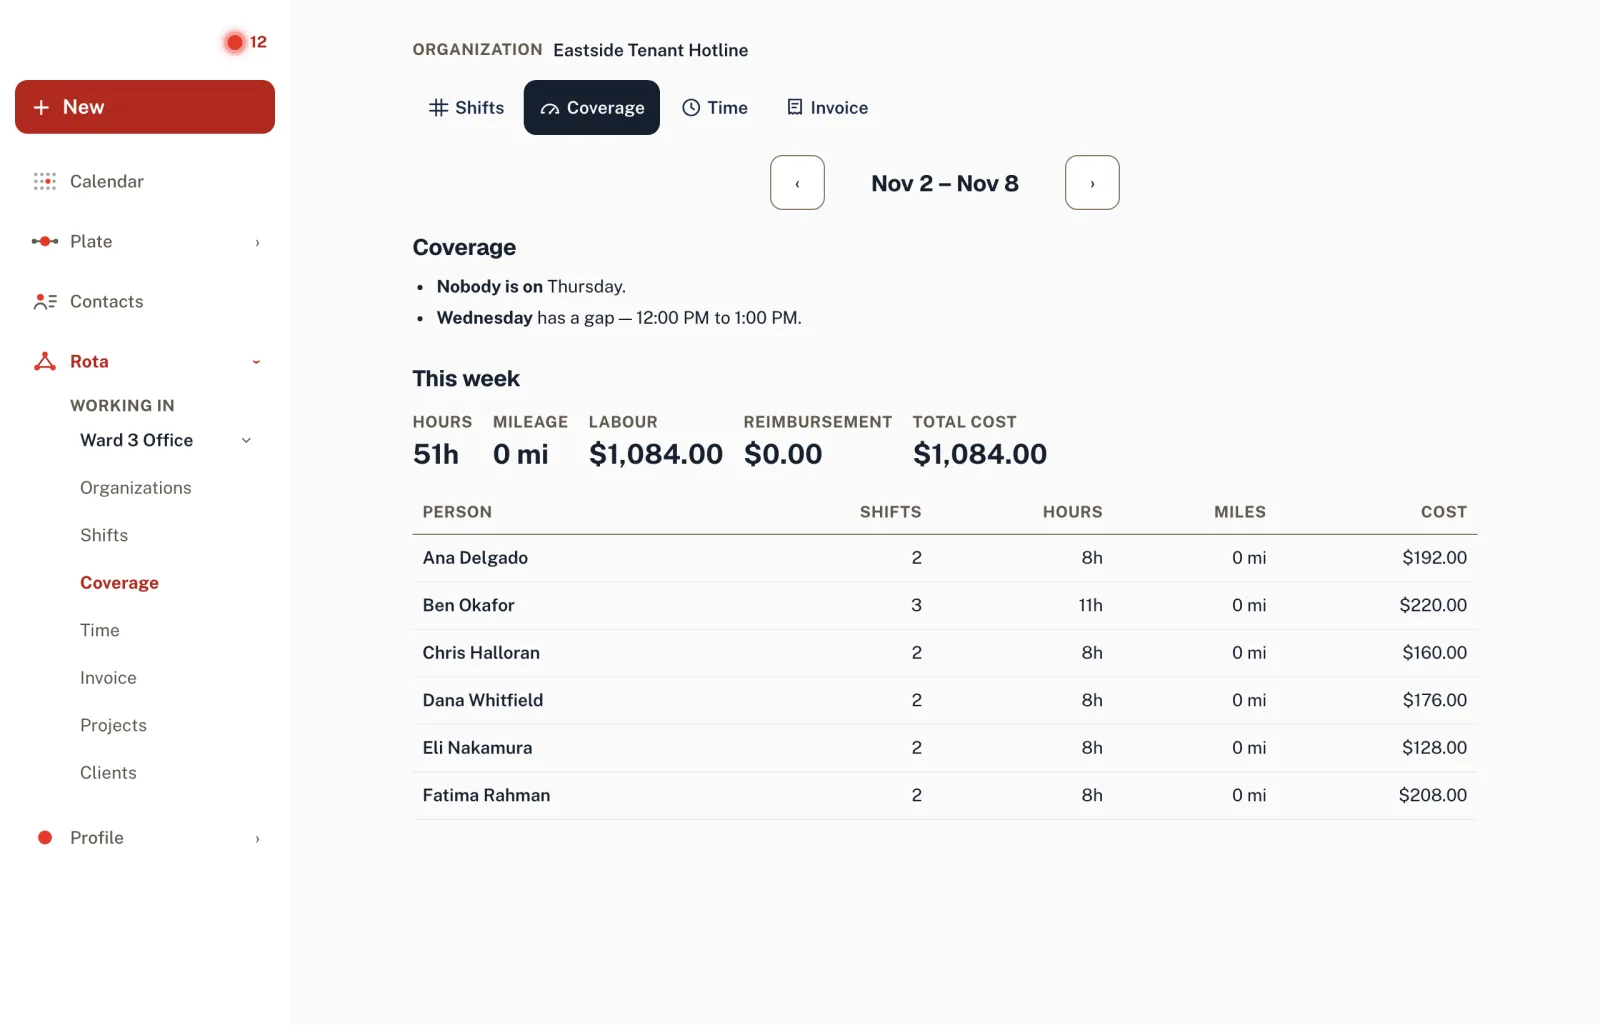
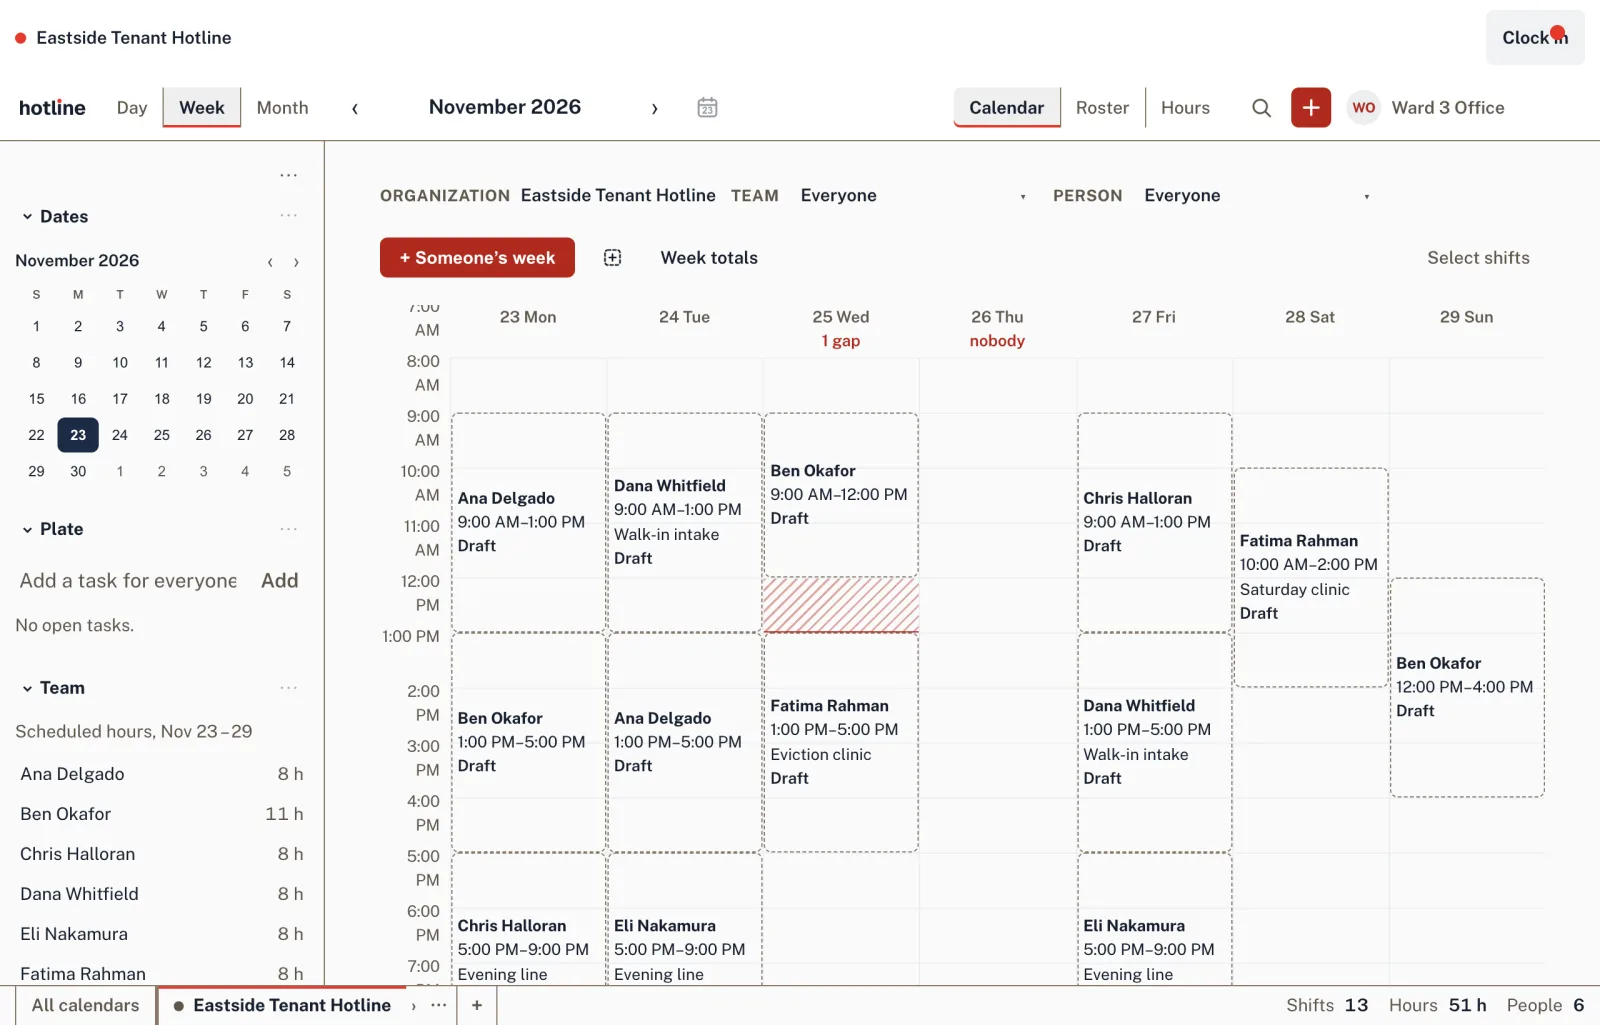
Show the redesigned app in the Hotline page's shift screens (#72)
"Schedule the shifts" and "See who's coming" are re-captured from the app
as it now ships, signed in as a test host whose organization is seeded with
a made-up roster for the current week. The second screen is now the same
week as a calendar, where coverage is drawn in place: Wednesday's gap is
hatched and Thursday is marked nobody. It used to be a separate Coverage
page, which the app no longer has, so its address bar reads
/schedule/calendar. Alt text in every language describes what each screen
now shows.

The seeded week is still in draft, and the screens show it that way.

diff --git a/src/app/[locale]/solutions/hotline/page.tsx b/src/app/[locale]/solutions/hotline/page.tsx
@@ -78,7 +78,7 @@ export default async function Hotline() {
             </h2>
             <p className="body-lg">{t("coverageBody")}</p>
           </div>
-          <BrowserShot shot={rotaCoverage} address="hotlinecal.com/schedule/coverage" />
+          <BrowserShot shot={rotaCoverage} address="hotlinecal.com/schedule/calendar" />
         </section>
 
         <section className="product-split" aria-labelledby="hotline-booking">

diff --git a/CHANGELOG.md b/CHANGELOG.md
@@ -30,6 +30,11 @@ Categories: **Added**, **Changed**, **Deprecated**, **Removed**, **Fixed**,
 
 ### Changed
 
+- **The Hotline page's shift screens show the redesigned app.** "Schedule the
+  shifts" and "See who's coming" are new captures from the app as it now
+  ships, with its new wordmark: a week's roster, and the same week as a
+  calendar with Wednesday's gap hatched and Thursday marked nobody. The other
+  screens on the page are unchanged for now.
 - **Hotline is presented as a coordination tool, in far fewer words.** Its
   page is now the tagline "Make the call.", one sentence on what it does, a
   button, and four screens — shifts, who's coming, booking
